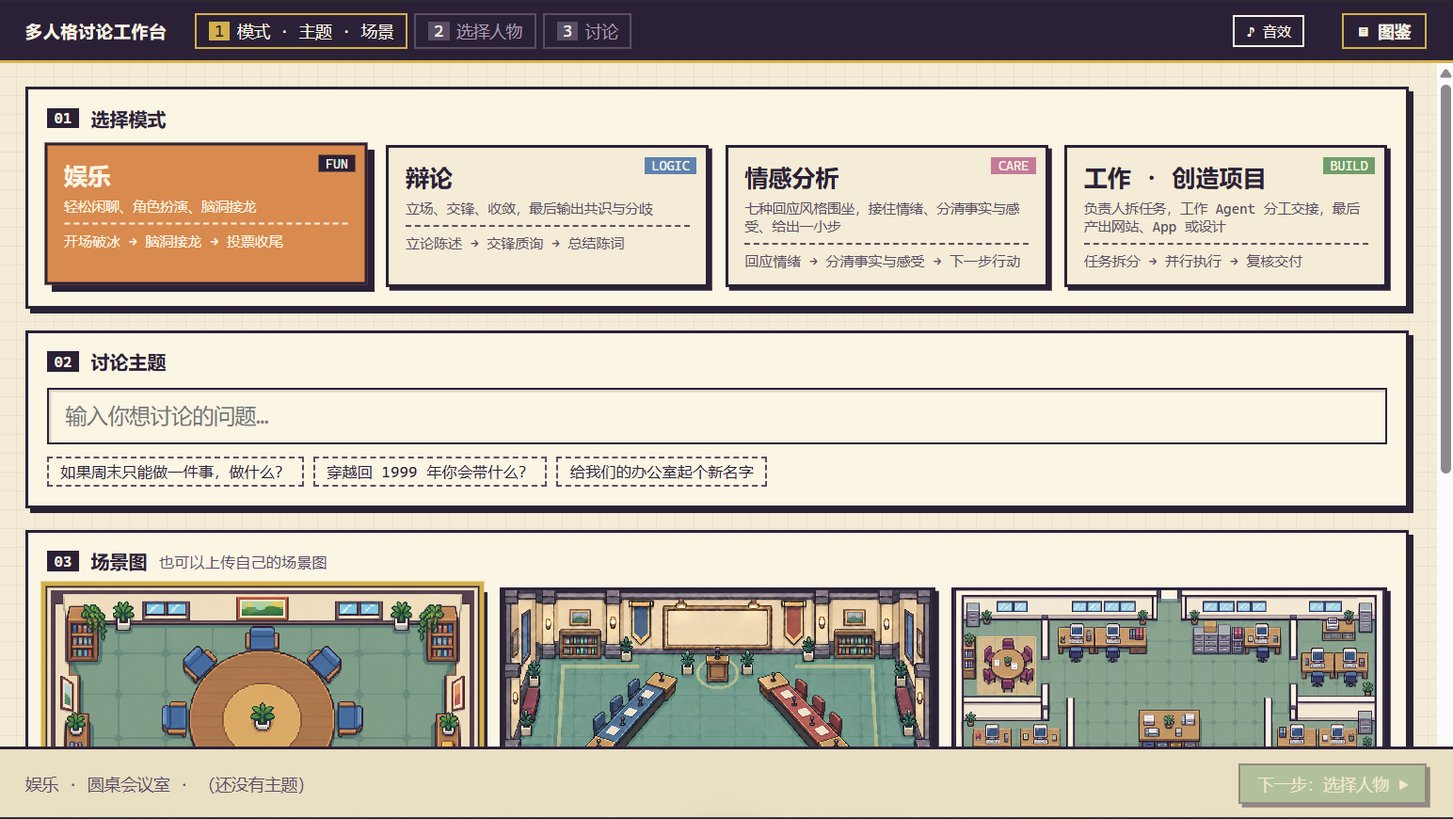
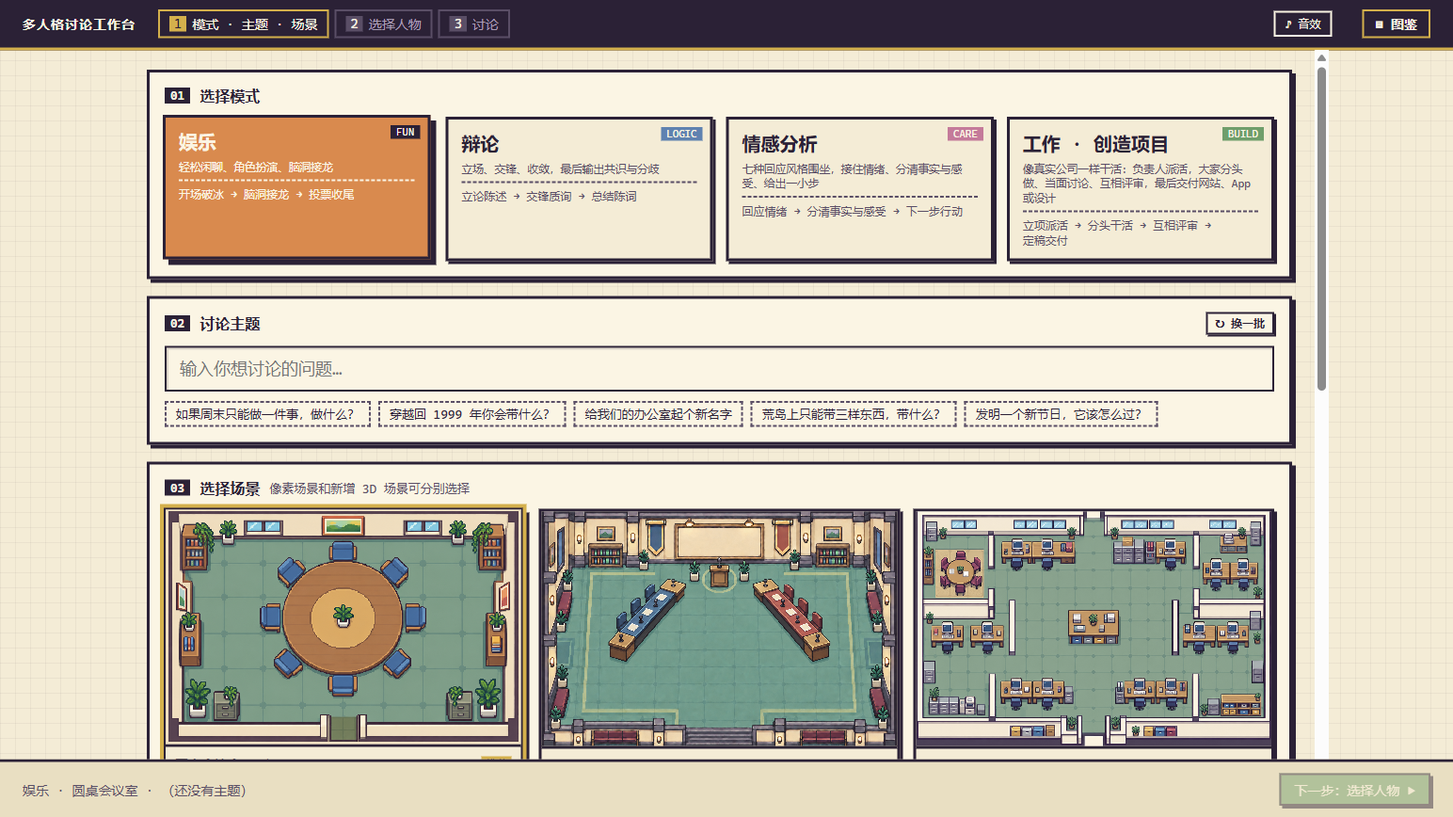
更新 README 截图和工作引擎说明，首页阶段名不再被拆开
- docs/screens：按 main 现状重拍 01 首页、02 辩论选人、03 辩论讨论，新增 04 办公室 13 人当面讨论
- 根 README：加第 4 步和办公室截图，时长按实测写明，修正场景数和娱乐人物数，链接工作引擎说明
- 新增 frontend/src/engines/product/README.md：按交接要求写清流程、发言顺序、每人能看到什么、
  人物怎么体现、用户插话、结束与结论、异常处理，以及台上调度规矩和工作模式用到的事件
- 工作组交接说明、引擎总览按现状更新（13 个人物、server/work.ts、暂停、走动、送审和文件标记等）
- 首页模式卡片：阶段名不拆开，一行放不下时只在两个阶段之间换行（四个阶段时不再断出单独的「付」）

diff --git a/frontend/src/styles.css b/frontend/src/styles.css
@@ -99,6 +99,7 @@ button { font: inherit; color: inherit; cursor: pointer; }
 .mode-card strong { font-size: 20px; }
 .mode-card small { color: var(--ink-2); }
 .mode-card em { font-style: normal; font-size: 12px; border-top: 2px dashed var(--ink-2); padding-top: 6px; color: var(--ink-2); }
+.mode-card em span { white-space: nowrap; }
 .mode-card.on { background: var(--mc); color: var(--cream); transform: translate(-2px, -2px); box-shadow: 6px 6px 0 var(--ink); }
 .mode-card.on small, .mode-card.on em { color: var(--cream); border-color: var(--cream); }
 .mode-card.on .tag { background: var(--ink); }

diff --git a/frontend/src/components/SetupScene.tsx b/frontend/src/components/SetupScene.tsx
@@ -40,7 +40,8 @@ export function SetupScene({ draft, onChange, onNext, customScenes, onSaveScene,
               <span className="tag">{m.tag}</span>
               <strong>{m.name}</strong>
               <small>{m.desc}</small>
-              <em>{m.roundLabels.join(' → ')}</em>
+              {/* 阶段名不拆开：一行放不下时只在两个阶段之间换行 */}
+              <em>{m.roundLabels.flatMap((label, i) => [i ? ' ' : null, <span key={label}>{label}{i < m.roundLabels.length - 1 ? ' →' : ''}</span>])}</em>
             </button>
           ))}
         </div>

diff --git a/frontend/src/engines/product/README.md b/frontend/src/engines/product/README.md
@@ -1,0 +1,120 @@
+# 工作引擎（工作 · 创造项目）
+
+像一支真实的团队在一间办公室里干活：负责人开站会派活，大家分头做，需要时走到同事工位当面问；写完第一版交给同事评审，当面回应后改出第二版；交付前负责人对一遍各部分，有冲突就把相关的人叫进会议室对齐、拍板，最后在交换台前宣布交付。
+
+流程跑在 Node 后端，前端用 `createBackendEngine`（`../backend.ts`）发起会话，经 SSE 接收事件。
+
+| 文件 | 内容 |
+| --- | --- |
+| `index.ts` | 引擎包：`create` 是 `createBackendEngine` |
+| `config.ts` | 可调参数：`pace`（节奏倍数，默认 1；0 表示不等，测试用）、`parallel`（最多几个人同时调用模型，默认 4，范围 1～8） |
+| `server/work.ts` | 四轮流程、台上调度 `Stage`、每个人此刻在干什么 `Presence`，以及从回答里认出「找谁」「请谁评审」「叫谁开会」 |
+| `server/session.ts` | 会话：每位成员一段模型对话、同一个人的请求排队、暂停、停止、用户插话、私聊、记录员总结 |
+| `src/data/stageRules.ts` | 前后端共用的台上规矩：走到哪、走多久（按距离算）、一句话在气泡里停多久 |
+| `scripts/check-work.mjs` | `npm run test:work`：假模型跑 13 人全流程，按事件时间逐条核对台上规矩，覆盖暂停、停止和失败 |
+
+（`index.ts` 和 `config.ts` 相对此目录，其余路径相对 `frontend/`。）
+
+人物在 `frontend/personas/product/`，共 13 个，见[人物库说明](../../../personas/README.md)。选人页里第一个入座的人默认是负责人，可以改。
+
+## 1. 讨论流程
+
+一共四轮，轮次名和 `src/data/modes.ts` 一致：
+
+1. **立项派活**
+   - 全组错开起身，围到中央交换台站成一圈。
+   - 人到齐后，负责人讲拆分思路，给每位成员各派一项任务。任务由模型输出 JSON；解析不出时，按各人的专长兜底。
+   - 讲完大家回工位，任务文件经交换台飞到各个工位。
+2. **分头干活**
+   - 所有成员同时开工，最多 `parallel` 个人同时调用模型。
+   - 每人先想要不要当面找一位同事对一下，最多找一位。要找的话，走到对方工位旁当面问，对方回答，听完再回来。
+   - 然后写第一版，末尾点一位最适合挑毛病的同事来评审。
+   - 第一版是交出来的文件：气泡里看要点，记录里按文件样式显示全文。
+3. **互相评审**
+   - 第一版送给作者点名的那位同事。点的是自己、负责人或已经排满，就换成手上最空的同事。超过 3 位作者时，每人最多安排两份；人数更少时按实际作者数设置上限。仅有一位成员时，由负责人评审。
+   - 评审人看完，走过来当面提意见；作者采纳或反驳，改出第二版。
+4. **定稿交付**
+   - 负责人对一遍各部分。有冲突就叫上 1～3 位相关的人去左上角会议室，一人一句对齐，负责人当场拍板。
+   - 各人把改好的部分经交换台交给负责人。
+   - 全组再围到交换台，负责人宣布最终交付。
+
+## 2. 发言顺序
+
+- **站会、会议**：一次一个人说，负责人先开口。会议里被叫的人按顺序说，每人接着前面的人往下说，最后由负责人拍板。
+- **分头干活、互相评审**：几组同时进行。每组当面谈的两个人轮流说（问 → 答，评审 → 回应）。一个人同一时间只跟一位同事当面谈，别人正在找他时就先等着。
+- **不插嘴、不抢话**：用户的话排在下一步之前回应，见第 5 节。
+
+**台上调度**（`work.ts` 里的 `Stage`）：模型照样几个人同时想、同时写，但说出来、起身走动、交文件都要等台上放行，宁可整场拉长也不挤。规矩如下：
+
+- 一个人话没说完不起身，路没走完不开口。
+- 当面谈的两个人轮流说：上一句在气泡里停够看完的时间（按字数 2.5～7 秒），才出下一句。回答在问题还挂在气泡里时就开始生成。
+- 站会和会议要等人到齐，一次一个人说；散会时等最后一句看完，再错开起身。
+- 工作流程同时最多两个发言气泡，多出来的对话先等着。几份第一版之间至少隔 0.9 秒交；用户提问的回应由会话单独处理。
+- 走路时间按距离算（0.7～2.6 秒）。前端动画和后端排时间用的是同一份 `stageRules.ts`。
+- 暂停时工作流程不上台，暂停的时间不计入台上的时钟；用户提问和私聊仍可回应。
+
+截图所用的 13 人办公室演示约 5 分钟，实际耗时随模型响应、讨论和会议次数变化。
+
+## 3. 每个人能看到什么
+
+每位成员是一段独立的模型对话，整场保留自己的历史。每次轮到他，先收到他上次之后的新公开记录，再收到这一步的指令。
+
+这是开放式办公室：别人当面谈的话、交上来的第一版、派活和送审记录，他都听得到。每条记录都标着谁对谁说、在干什么。
+
+私聊只发给被点的那个人，不进公开记录，别人拿不到。
+
+## 4. 人物怎么体现
+
+每位成员的 system 提示词由三部分组成：
+
+- **人物文件**：身份、知识、思考方式、价值观、选中的性格和说话风格、口头禅、底线；
+- **本场规则**：在座成员、谁是负责人，以及工作模式下「真实团队」的说话方式；
+- **统一的说话方式**。
+
+性格决定他找谁、问什么、怎么评审、同不同意。底线照常遵守。
+
+## 5. 用户插话
+
+- **对全体说**：排在下一步之前，由负责人回应；回应完接着原来的流程。
+- **点成员说**：算私聊，只有他看得到。他私下回应，不占公开发言位。
+- **暂停中和结束后**：暂停时也能说话、私聊；讨论结束后还能接着追问。
+
+## 6. 结束与结论
+
+负责人宣布交付后，由单独的记录员把全程整理成五部分：
+
+- 共识；
+- 分歧；
+- 待验证的问题；
+- 建议；
+- 交付物：按「名字：产出」列出每个人交了什么。
+
+## 7. 异常处理
+
+- **停止**：中断在途的模型请求，取消走路、气泡这些等待，之后不再发出任何工作事件。
+- **调用失败**：
+  - 每次调用默认 180 秒超时。可重试的失败先等 3 秒，再试一次。
+  - 关键步骤仍然失败，就停下并提示「本次工作未交付」，已发出的记录会保留。关键步骤包括派活、开工准备、当面讨论、第一版、评审、第二版、交付检查、会议和定稿。
+  - 连续 3 次失败，或鉴权、余额、模型不存在等不可重试的错误，直接停止。
+- **总结失败**：提示「整理结论失败」，不会发出 `result` 结论；已有讨论记录保留，仍可继续追问。
+- **页面断开**：前端断开一分钟还没回来，会话自动结束。
+
+## 事件
+
+除了通用的 `session`、`round`、`status`、`message`、`result`，工作引擎还用到以下几项：
+
+- **`move`**：`{type:'move', agentId, to}`。`to` 的取值：
+  - `desk`：回工位；
+  - `huddle`：去站会；
+  - `meeting`：去会议室；
+  - 同事的 agentId：走到他工位旁。
+
+  只在标了 `stations` 的二维场景（办公室）里画出走动，其他场景里大家留在座位上。
+- **`task`**：任务的状态有三种，前端据此画文件飞行和任务板：
+  - `assigned`：派活；
+  - `review`：送审；
+  - `done`：交付。
+- **message 的三个字段**：
+  - `targetId`：当面说话的那位同事；
+  - `tag`：这句话所在的环节，比如站会、第一版、评审、第二版、对齐、拍板、交付；
+  - `doc`：标记这是交出来的文件（第一版）。

diff --git a/README.md b/README.md
@@ -18,26 +18,30 @@
 
 ![讨论](docs/screens/03-discussion.png)
 
+**4. 工作 · 办公室**：13 个工位都能坐人。负责人在中央交换台开站会派活，大家分头干活，需要时走到同事工位当面讨论，写完互相评审，有冲突就进会议室对齐。画面按现实规矩排队：同屏最多两个气泡，气泡上标着谁对谁说。
+
+![工作 · 办公室](docs/screens/04-office.png)
+
 场景图在 `frontend/public/scenes/`，六张分别是圆桌会议室、辩论室、办公室、中南大学教室、草地野餐、播客访谈间（正面视角，两人全身坐在扶手椅上访谈），也可以上传自己的图。例如中南大学教室：
 
 ![中南大学教室](frontend/public/scenes/scene-classroom.png)
 
-原有五个像素场景和各模式的默认选择保持不变。在场景列表下方的「新增 3D 场景」中，还可单独选择「圆桌会议室 · 3D」「辩论室 · 3D」「办公室 · 3D」。仅主动选择这些新增场景时才加载三维模型，可拖动旋转、滚轮缩放，也能切回场景原图。人物继续使用现有的独立角色形象和状态动画，位置跟随视角；之前试生成的通用人物模型已撤下。模型来源、处理脚本和当前限制见 [`frontend/public/models/README.md`](frontend/public/models/README.md)。
+加了 3D 场景之后，像素场景和各模式的默认场景都不变。在场景列表下方的「新增 3D 场景」中，还可单独选择「圆桌会议室 · 3D」「辩论室 · 3D」「办公室 · 3D」。仅主动选择这些新增场景时才加载三维模型，可拖动旋转、滚轮缩放，也能切回场景原图。人物继续使用现有的独立角色形象和状态动画，位置跟随视角；之前试生成的通用人物模型已撤下。模型来源、处理脚本和当前限制见 [`frontend/public/models/README.md`](frontend/public/models/README.md)。
 
 ## 四个模式
 
 | 模式 | 引擎 | 人物 |
 | --- | --- | --- |
-| 娱乐 | 浏览器里的导演 + 演员引擎（`frontend/src/engines/entertainment/` + 底盘 `live/`）：导演看全场、提名每一步可能接话的人，谁真的开口按各人此刻的冲动抽，每个角色按自己的人设说、自己定看法（导演的话头不合人设可以不接）；能插嘴、冷场散场；可以暂停、@点名、私聊撺掇 | `frontend/personas/entertainment/` 7 人 |
+| 娱乐 | 浏览器里的导演 + 演员引擎（`frontend/src/engines/entertainment/` + 底盘 `live/`）：导演看全场、提名每一步可能接话的人，谁真的开口按各人此刻的冲动抽，每个角色按自己的人设说、自己定看法（导演的话头不合人设可以不接）；能插嘴、冷场散场；可以暂停、@点名、私聊撺掇 | `frontend/personas/entertainment/` 7 位室友，加播客主持人阿麦，共 8 人 |
 | 辩论 | 浏览器里的独立导演 + 辩手 + 裁判引擎（`frontend/src/engines/rational/`）：按正反方轮次交锋，主持或中立裁判判定；人物说法随现场变化 | `backend/人物/理性/` 5 人，构建时直接加载 |
 | 情感分析 | 浏览器里的导演 + 演员引擎（`frontend/src/engines/emotion/` + 底盘 `live/`）：七种回应风格一起接住你的事，导演按「回应情绪 → 分清事实与感受 → 下一步行动」往前排、提名谁接话，谁开口按冲动抽、怎么说各人自己定，情绪（心疼、火气、担心、欣慰）一步步递进；有人问你时会停下来等你开口；可以暂停、@点名、私聊 | `frontend/personas/emotion/` 7 人 |
 | 工作 | Node 会话后端（`frontend/server/work.ts`）：立项派活 → 分头干活 → 互相评审 → 定稿交付 | `frontend/personas/product/` 13 人 |
 
 工作模式的办公室开放 13 个工位。负责人先在中央交换台开站会派活，成员并行写第一版，需要时到同事工位当面讨论；第一版作为文件交给同事评审，当面回应后改出第二版。负责人发现各部分有冲突时，会叫相关成员进会议室对齐、拍板，最后在交换台前宣布交付。记录显示交流双方，点开成员也能看到别人对他说的话。
 
-画面上照现实的规矩排队，宁可整场拉长也不挤（规则在 `frontend/src/data/stageRules.ts` 和 `server/work.ts` 的 `Stage`）：模型照样几个人同时想、同时写，但一个人话没说完不起身、路没走完不开口；当面谈的两个人轮流说，上一句在气泡里停够看完的时间才出下一句；站会和会议要等人到齐、一次一个人说，散会等最后一句看完；全屏同时最多两个气泡，多出来的对话先等着；第一版是交出来的文件，照样出气泡（标题写「· 第一版」），记录里按文件样式显示，几份第一版错开交。走路时间按距离算，前端动画和后端排时间用同一份。13 人一场约 4～5 分钟。娱乐、情感分析和辩论本来就是一次一个人开口（小反应错开、插嘴立即截断），不受影响。
+画面上照现实的规矩排队，宁可整场拉长也不挤（规则在 `frontend/src/data/stageRules.ts` 和 `frontend/server/work.ts` 的 `Stage`）：模型照样几个人同时想、同时写，但一个人话没说完不起身、路没走完不开口；当面谈的两个人轮流说，上一句在气泡里停够看完的时间才出下一句；站会和会议要等人到齐、一次一个人说，散会等最后一句看完；全屏同时最多两个气泡，多出来的对话先等着；第一版是交出来的文件，照样出气泡（标题写「· 第一版」），记录里按文件样式显示，几份第一版错开交。走路时间按距离算，前端动画和后端排时间用同一份。截图所用的 13 人演示约 5 分钟，实际耗时随模型响应和交流次数变化。娱乐、情感分析和辩论本来就是一次一个人开口（小反应错开、插嘴立即截断），不受影响。
 
-二维办公室支持走动、站会和会议室坐姿；「办公室 · 3D」支持 13 人入座，当前仍在各自工位表现工作状态。暂停会等待恢复后再推进工作，期间可以继续私聊；停止会中断模型请求和流程等待。人物通过文字产出方案，不会实际创建网站、App 或文件。
+二维办公室支持走动、站会和会议室坐姿；「办公室 · 3D」支持 13 人入座，当前仍在各自工位表现工作状态。暂停会等待恢复后再推进工作，期间可以继续私聊；停止会中断模型请求和流程等待。人物通过文字产出方案，不会实际创建网站、App 或文件。流程、发言顺序、每个人能看到什么、异常处理等完整说明见 [`frontend/src/engines/product/README.md`](frontend/src/engines/product/README.md)。
 
 在 `frontend/` 中运行 `npm run test:work` 可用假模型验证 13 人全流程、台上排队的规矩（按事件时间逐条核对）、当面谈排队、并发上限、暂停恢复和停止。发布前运行根目录的 `npm run build`，同时更新页面和服务端产物。
 
@@ -46,7 +50,7 @@
 - `frontend/`：网页和 Node 后端（`server/`），人物在 `personas/`，给各组的交接说明在 `docs/handoff/`。
 - `backend/`：辩论人物与性格资料的原始文件；旧版 Python 服务保留作独立工具，网页运行不依赖它。
 - `persona-protocol/`：人物文件格式的校验器，前端加载人物和图鉴导入都用它；命令行用法 `node persona-protocol/src/cli.mjs 文件.json`。
-- `docs/screens/`：README 里用到的三张界面截图。
+- `docs/screens/`：README 里用到的四张界面截图。
 
 ## 运行
 

diff --git a/frontend/docs/handoff/03-工作组-人物与引擎.md b/frontend/docs/handoff/03-工作组-人物与引擎.md
@@ -1,12 +1,14 @@
 # 工作组：需要提交的内容（工作 · 创造项目模式）
 
+> 现状：工作引擎已有 13 个人物、四轮流程（立项派活 → 分头干活 → 互相评审 → 定稿交付）和台上调度。下面七项各自怎么做的，见[工作引擎说明](../../src/engines/product/README.md)。以下保留给工作组的接口约定，事实部分已按现状更新。
+
 仓库：https://github.com/Maxworkinghard/muti-agent，前端在 `frontend/`。
 
 ## 一、人物
 
 每个人物一个 JSON 文件，放在 `frontend/personas/product/`，数量和内容由你们决定。前端启动时自动读取，不用改代码；文件按路径排序，文件名前面加数字可以决定先后。
 
-人格资料包协议 v1.0 的 `modes` 目前没有工作模式，所以工作 Agent 用前端简化格式（字段和 `frontend/src/types.ts` 里的 `Persona` 一样）：
+人格资料包协议 v1.0 已支持 `product`；前端同时接受协议格式和简化格式。现有工作人物使用简化格式，字段与 `frontend/src/types.ts` 里的 `Persona` 一致：
 
 | 字段 | 包含 |
 |---|---|
@@ -20,7 +22,7 @@
 | boundaries | 底线，字符串数组 |
 | visual | 像素形象：skin、hair、shirt、accent，可选 hairStyle、extras；或者用 image 放头像图片 |
 
-参考样例：`frontend/personas/product/` 里现有的五个人物，例如 `01-ji-mu.json`。`_说明` 这类下划线开头的字段只是备注，前端不读。
+参考样例：`frontend/personas/product/` 里现有的 13 个人物（原有 5 个，后来补了 8 个），例如 `01-ji-mu.json`。`_说明` 这类下划线开头的字段只是备注，前端不读。
 
 如果需要额外字段（例如工作能力），先加到 `src/types.ts` 的 `Persona` 里，再在 `src/data/personas.ts` 的 `checkPersona` 里读出来，引擎就能从 `participant.persona` 拿到。
 
@@ -46,7 +48,7 @@
 { mode: 'product', name, owner, create, defaults }
 ```
 
-现在 `create` 是 `createBackendEngine`：流程跑在后端的 `server/session.ts`，每位成员是一段直接调用模型的对话。换成你们自己的流程时，把 `create` 换成自己的实现即可；在浏览器里调用模型用 `src/llm/client.ts`（写法见 `src/engines/README.md` 的「调用 AI」），不要把 Key 写进前端代码。
+现在 `create` 是 `createBackendEngine`：流程在后端的 `server/work.ts`（由 `server/session.ts` 的会话运行），每位成员是一段直接调用模型的对话。换成你们自己的流程时，把 `create` 换成自己的实现即可；在浏览器里调用模型用 `src/llm/client.ts`（写法见 `src/engines/README.md` 的「调用 AI」），不要把 Key 写进前端代码。
 
 `create()` 返回：
 
@@ -54,6 +56,8 @@
 {
   start(config: SessionConfig, emit: (e: EngineEvent) => void): void;
   sendUserMessage(input: { text: string; targetAgentId?: string }): void;
+  pause(): void;
+  resume(): void;
   stop(): void;
 }
 ```
@@ -72,12 +76,13 @@ participant 的格式：`{ agentId, seatIndex, color, personalityId, persona, si
 
 | 事件 | 格式 |
 |---|---|
-| session | `{type:'session', state:'running'\|'finished'\|'stopped'}` |
+| session | `{type:'session', state:'running'\|'paused'\|'finished'\|'stopped'}` |
 | round | `{type:'round', round, label}` |
 | status | `{type:'status', agentId, state:'idle'\|'thinking'\|'speaking'\|'working'\|'done', action}` |
-| message | `{type:'message', message:{ id, round, speakerId, text, kind:'speech'\|'user'\|'reply'\|'system'\|'task'\|'notice', targetId?, at, meta? }}` |
+| message | `{type:'message', message:{ id, round, speakerId, text, kind:'speech'\|'user'\|'reply'\|'system'\|'task'\|'notice'\|'react', targetId?, private?, tag?, quote?, cut?, doc?, at }}`：工作模式里当面跟同事说话时 `targetId` 是那位同事，`private` 标记私聊，`tag` 是环节（站会、第一版、评审……），`doc` 标记交出来的文件（第一版） |
 | message_update | `{type:'message_update', id, text}`：流式发言时，按同一个 id 更新全文 |
-| task | `{type:'task', task:{ id, title, from, to, status:'assigned'\|'handoff'\|'done' }}` |
+| task | `{type:'task', task:{ id, title, from, to, status:'assigned'\|'handoff'\|'review'\|'done' }}`：派活、交接、送审、交付 |
+| move | `{type:'move', agentId, to}`：离开或回到工位，`to` 是 `desk`、`huddle`（站会）、`meeting`（会议室）或同事的 agentId（走到他工位旁） |
 | result | `{type:'result', result:{ consensus[], disagreements[], openQuestions[], suggestions[], deliverables?[], summary? }}` |
 | theme | `{type:'theme', title}`：没填主题时，按用户的第一句话起的主题 |
 | error | `{type:'error', id, agentId?, message, retry?}`：前端显示错误卡片，给了 retry 时显示“重试”按钮 |

diff --git a/frontend/src/engines/README.md b/frontend/src/engines/README.md
@@ -6,7 +6,7 @@
 - `emotion/` 情感分析引擎（情感组）：同一套导演 + 演员底盘，换成情感的导演规则、情绪和三步（回应情绪 → 分清事实与感受 → 下一步行动）；跑在浏览器里，说明见该目录的 `README.md`
 - `live/` 娱乐和情感分析共用的活人聊天底盘（导演 + 演员），说明见该目录的 `README.md`
 - `rational/` 独立辩论引擎：自己的导演、辩手、裁判与固定轮次，只共用模型接口和页面
-- `product/` 工作引擎（工作部分导入后合并到这里）
+- `product/` 工作引擎：像真实团队一样立项派活 → 分头干活（当面讨论）→ 互相评审 → 定稿交付，画面按现实规矩排队；流程跑在 Node 后端 `server/work.ts`，见[工作引擎说明](./product/README.md)
 
 每个文件夹里：
 
@@ -17,7 +17,7 @@
 
 ## 调用 AI
 
-四个模式共用同一个 AI 接口，不要各自直连模型服务商，也不要把 API Key 写进前端代码。
+四个模式共用服务器端的模型配置，API Key 只留在服务器。娱乐、情感分析和辩论在浏览器里运行，通过下面的 `chat` / `chatStream` 接口调用模型；工作引擎在 Node 后端通过 `server/llmAgent.ts` 调用模型，前端只接收会话事件，详见[工作引擎说明](./product/README.md)。
 
 ```ts
 import { chat, chatStream } from '../../llm/client';
@@ -34,7 +34,7 @@ await chatStream(messages, (chunk) => { /* 追加到当前发言 */ });
 
 请求走同源的 `/api/llm/chat`，由 `server/llm-proxy.ts` 补上 Key 后转给服务商。Key、服务商地址和默认模型都写在 `frontend/.env`（参考 `.env.example`）。
 
-## 引擎要遵守的几条约定
+## 浏览器引擎要遵守的几条约定
 
 - 默认 `maxTokens` 是 10000（`DEFAULT_MAX_TOKENS`），默认超时 90 秒。当前模型会先思考，思考也算在额度里，别调得太小，否则会报“没写出回复”。
 - 所有失败都会抛 `LlmError`，带 `kind`（aborted / timeout / network / auth / quota / rate_limit / server / bad_request / empty）、`retryable` 和中文 `message`。用户点停止引起的中断用 `isAbort(e)` 判断，不要当成错误显示。
